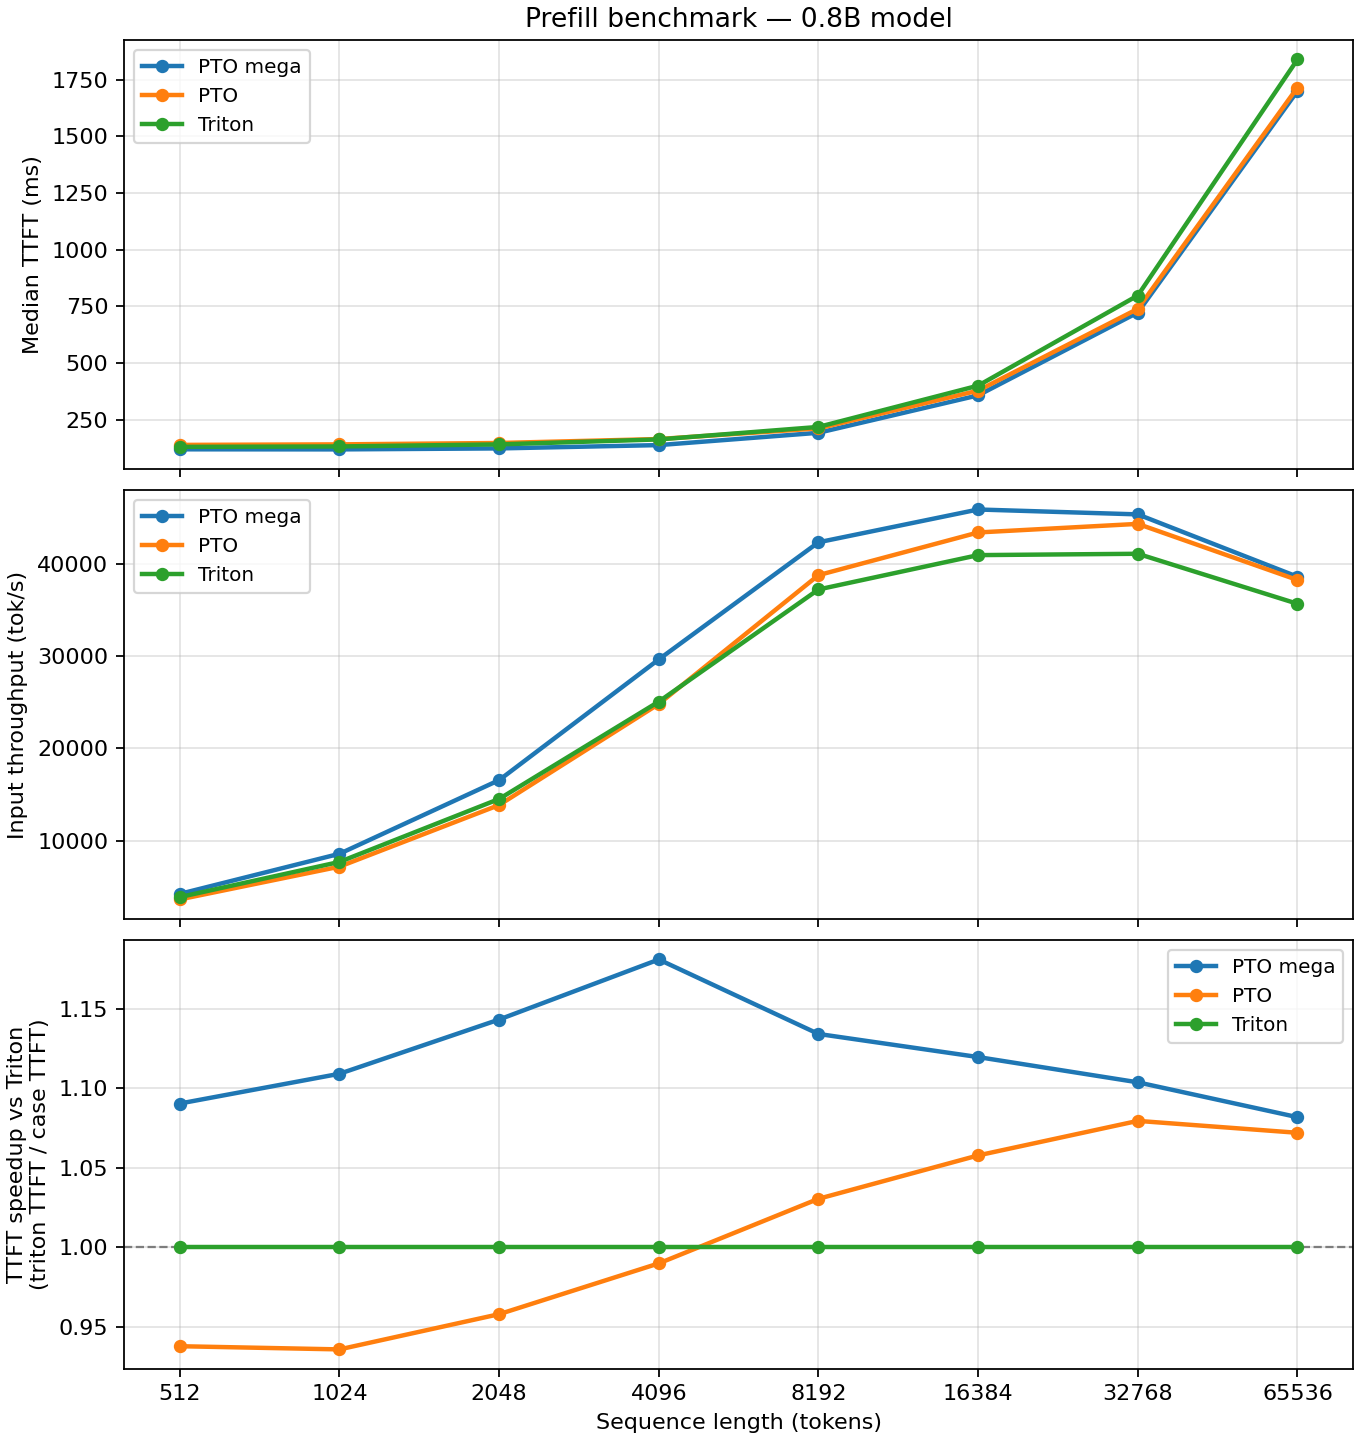
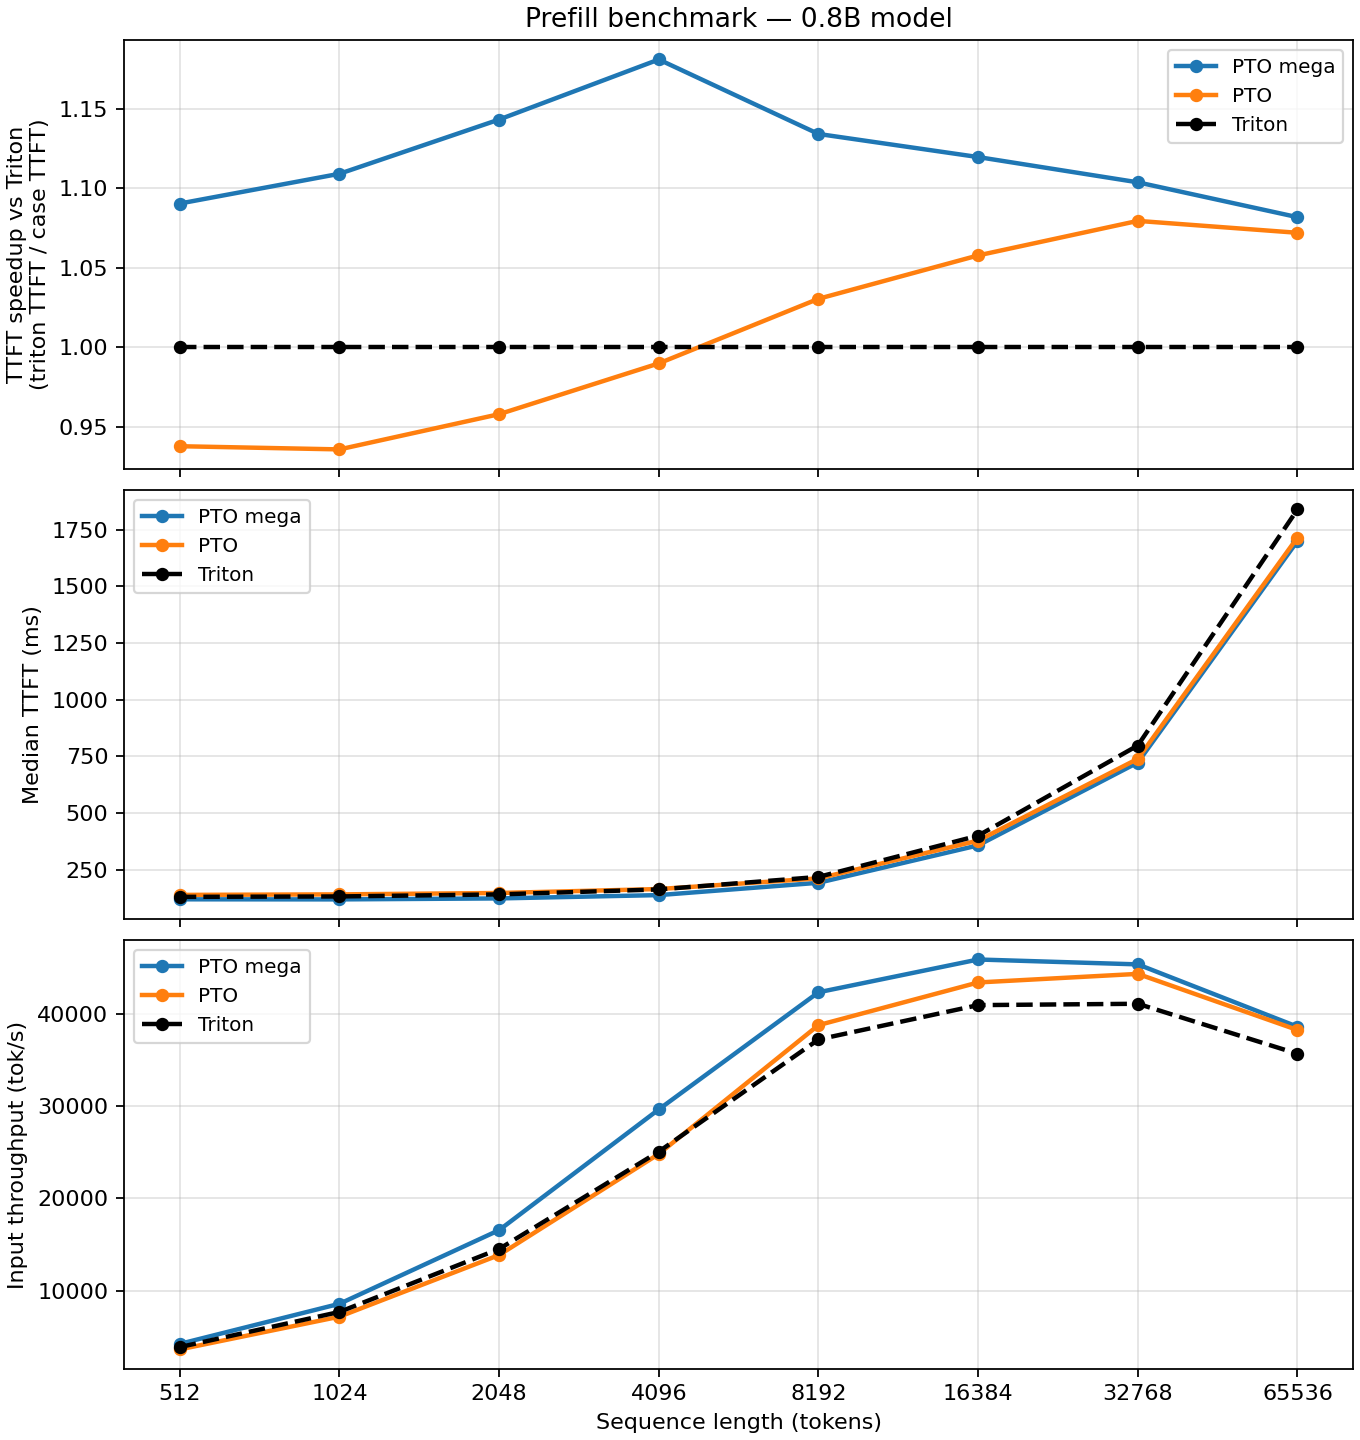
tweak plot style slightly

diff --git a/patch_vllm_pto/plot_speedup.py b/patch_vllm_pto/plot_speedup.py
@@ -17,7 +17,7 @@ OUT_DIR = Path(__file__).resolve().parent / "figure"
 CASE_STYLE = {
     "pto_mega": {"color": "#1f77b4", "label": "PTO mega"},
     "pto": {"color": "#ff7f0e", "label": "PTO"},
-    "triton": {"color": "#2ca02c", "label": "Triton"},
+    "triton": {"color": "k", "linestyle": "--", "label": "Triton"},
 }
 
 
@@ -61,7 +61,7 @@ def _plot_model(model_dir: Path, model_name: str, out_path: Path) -> None:
             speedup[c].append(t0 / t if t > 0 else float("nan"))
 
     fig, axes = plt.subplots(3, 1, figsize=(8.5, 9), sharex=True, constrained_layout=True)
-    ax_ttft, ax_tps, ax_sp = axes
+    ax_sp, ax_ttft, ax_tps = axes
 
     for c in ("pto_mega", "pto", "triton"):
         sty = CASE_STYLE[c]
@@ -69,9 +69,17 @@ def _plot_model(model_dir: Path, model_name: str, out_path: Path) -> None:
         ttft = np.array([float(data[c][sl]["median_ttft_ms"]) for sl in seq_lens])
         tps = np.array([float(data[c][sl]["input_tps"]) for sl in seq_lens])
         sp = np.array(speedup[c])
-        ax_ttft.plot(xs, ttft, marker="o", markersize=5, linewidth=2, label=sty["label"], color=sty["color"])
-        ax_tps.plot(xs, tps, marker="o", markersize=5, linewidth=2, label=sty["label"], color=sty["color"])
-        ax_sp.plot(xs, sp, marker="o", markersize=5, linewidth=2, label=sty["label"], color=sty["color"])
+        line_kw = dict(
+            marker="o",
+            markersize=5,
+            linewidth=2,
+            label=sty["label"],
+            color=sty["color"],
+            linestyle=sty.get("linestyle", "-"),
+        )
+        ax_sp.plot(xs, sp, **line_kw)
+        ax_ttft.plot(xs, ttft, **line_kw)
+        ax_tps.plot(xs, tps, **line_kw)
 
     for ax in axes:
         ax.set_xscale("log", base=2)
@@ -80,15 +88,13 @@ def _plot_model(model_dir: Path, model_name: str, out_path: Path) -> None:
         ax.grid(True, which="major", alpha=0.35)
         ax.legend(loc="best", fontsize=9)
 
+    ax_sp.set_ylabel("TTFT speedup vs Triton\n(triton TTFT / case TTFT)")
+    ax_sp.set_title(f"Prefill benchmark — {model_name} model")
+
     ax_ttft.set_ylabel("Median TTFT (ms)")
-    ax_ttft.set_title(f"Prefill benchmark — {model_name} model")
 
     ax_tps.set_ylabel("Input throughput (tok/s)")
-
-    ax_sp.set_ylabel("TTFT speedup vs Triton\n(triton TTFT / case TTFT)")
-    ax_sp.axhline(1.0, color="#666666", linestyle="--", linewidth=1, zorder=0)
-
-    ax_sp.set_xlabel("Sequence length (tokens)")
+    ax_tps.set_xlabel("Sequence length (tokens)")
 
     fig.savefig(out_path, dpi=160)
     plt.close(fig)
